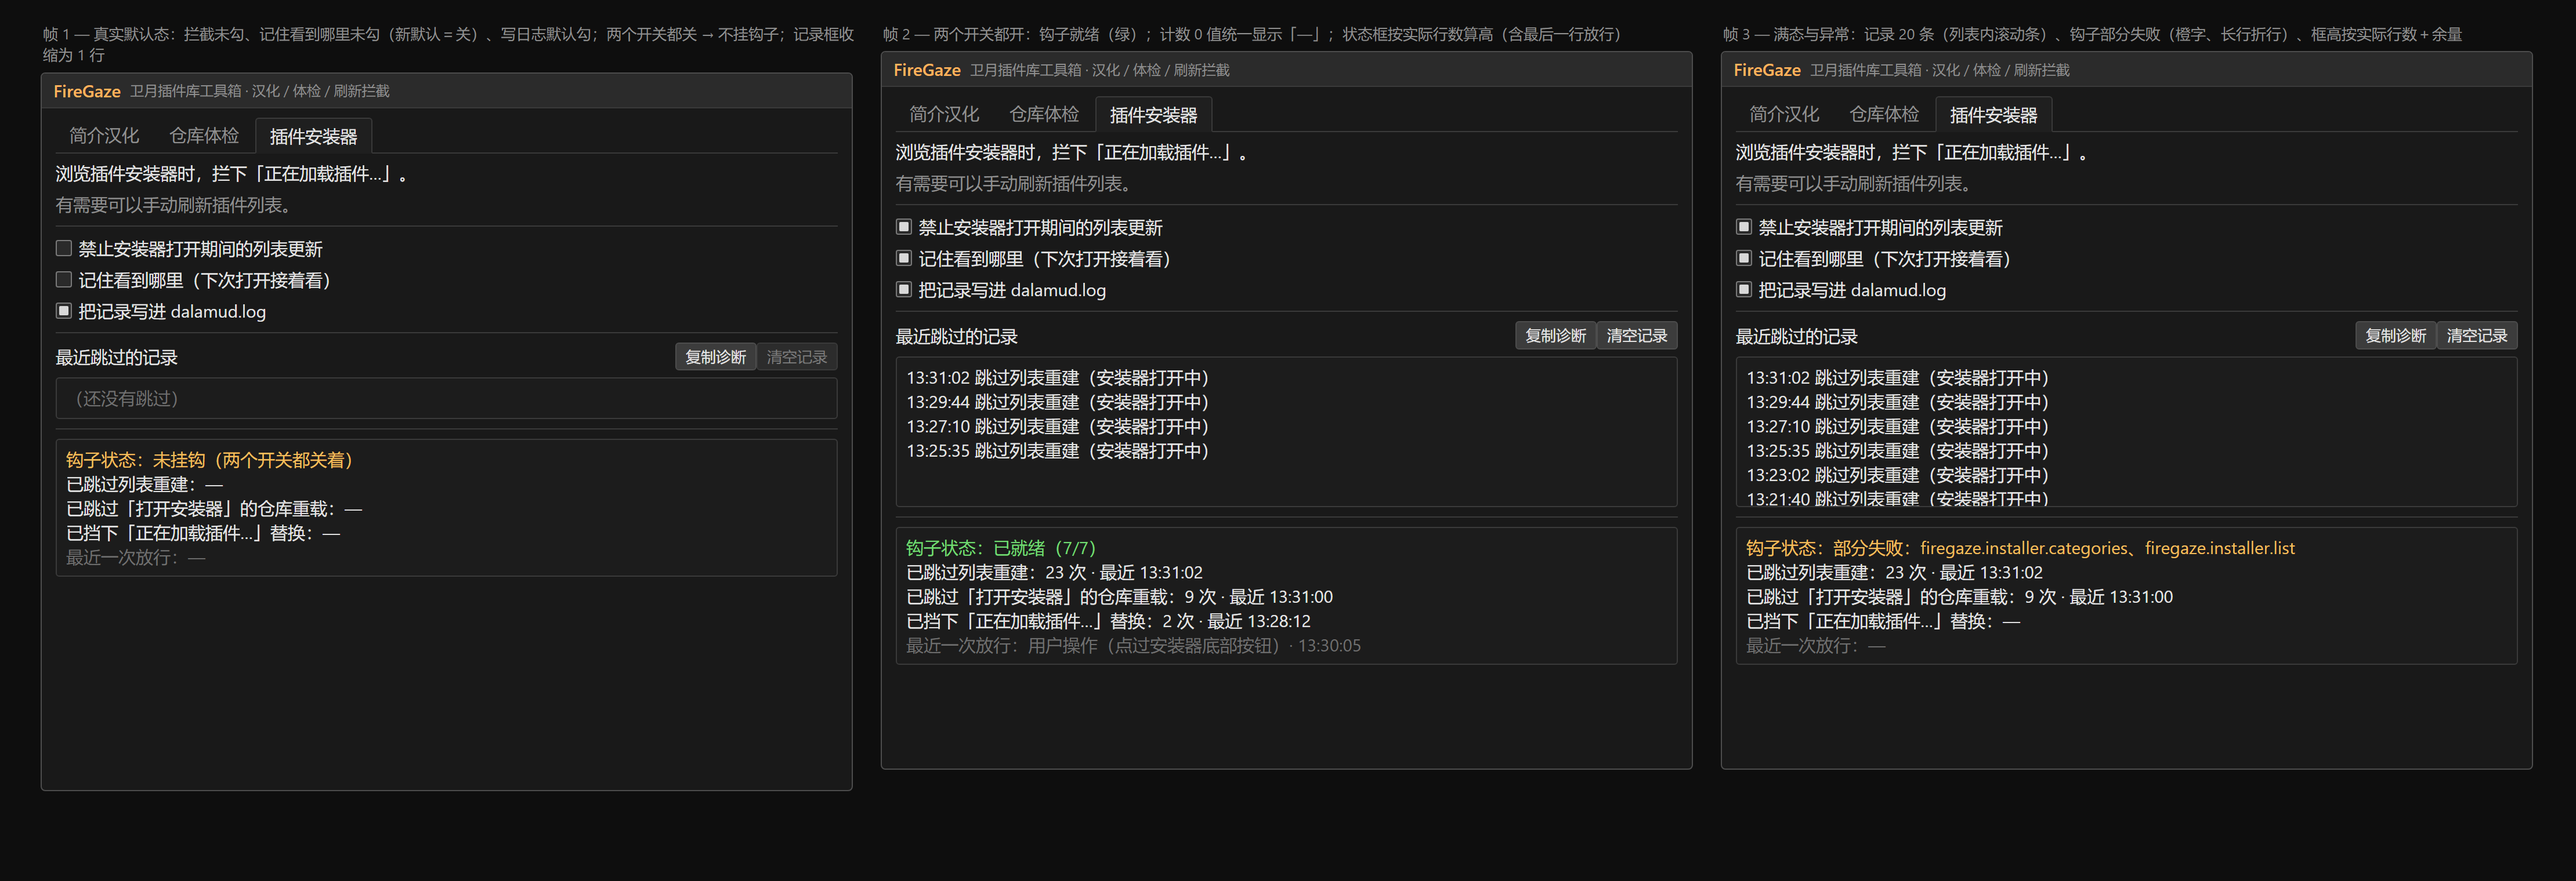
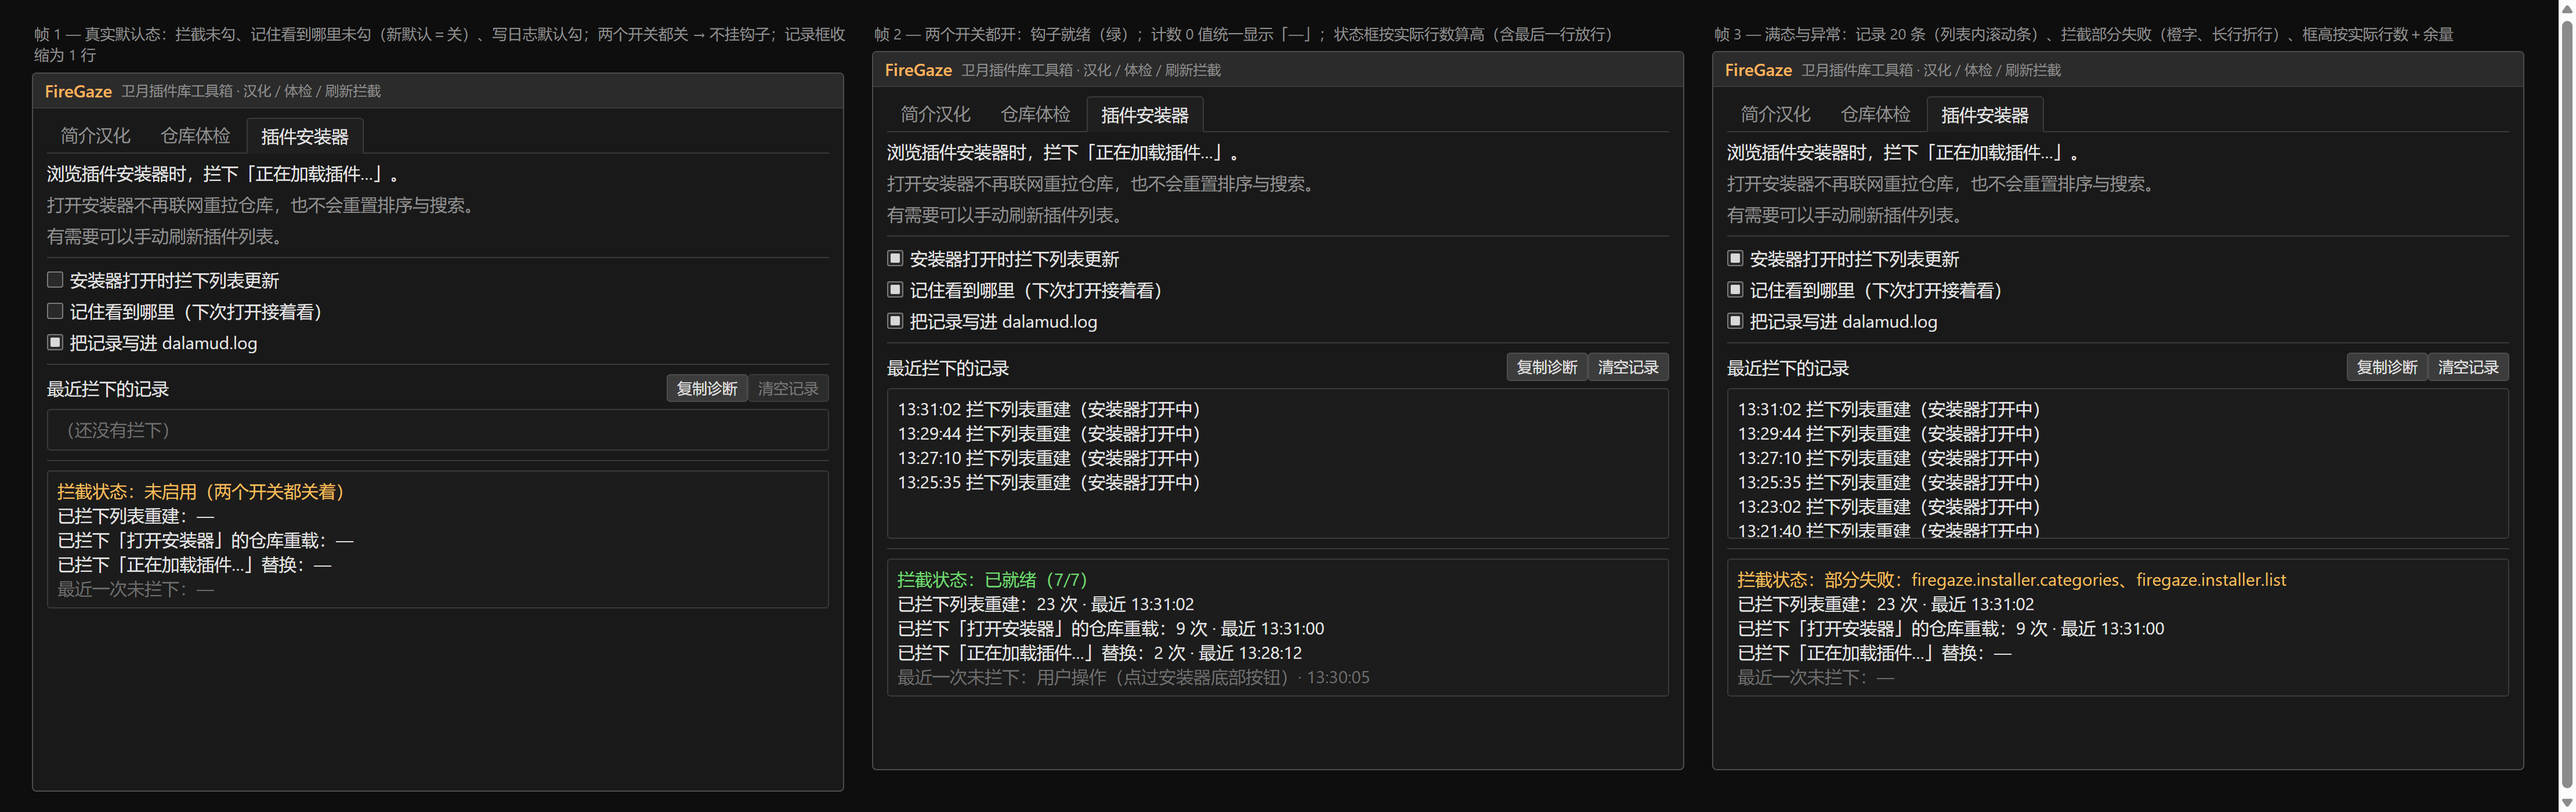
术语统一为「拦下」（页签/记录/状态/诊断/聊天输出），拦截状态行改短句；说明文案补「打开安装器不再联网重拉仓库，也不会重置排序与搜索」；还原图同步；1.0.0.21

Changed region(s): [[0.0, 0.0, 1.0, 1.0]]

diff --git a/Resources/ui-mockup-installer-tab.html b/Resources/ui-mockup-installer-tab.html
@@ -58,27 +58,28 @@
         <div class="tabs"><div class="tab">简介汉化</div><div class="tab">仓库体检</div><div class="tab active">插件安装器</div></div>
 
         <div>浏览插件安装器时，拦下「正在加载插件…」。</div>
+        <div class="hint">打开安装器不再联网重拉仓库，也不会重置排序与搜索。</div>
         <div class="hint">有需要可以手动刷新插件列表。</div>
 
         <div class="sep"></div>
 
-        <div class="chip"><span class="check"></span>禁止安装器打开期间的列表更新</div>
+        <div class="chip"><span class="check"></span>安装器打开时拦下列表更新</div>
         <div class="chip"><span class="check"></span>记住看到哪里（下次打开接着看）</div>
         <div class="chip"><span class="check on"></span>把记录写进 dalamud.log</div>
 
         <div class="sep"></div>
 
-        <div class="sect"><span>最近跳过的记录</span><span class="grow"></span><button>复制诊断</button><button class="disabled">清空记录</button></div>
-        <div class="frame list" style="height:36px"><span class="dim">（还没有跳过）</span></div>
+        <div class="sect"><span>最近拦下的记录</span><span class="grow"></span><button>复制诊断</button><button class="disabled">清空记录</button></div>
+        <div class="frame list" style="height:36px"><span class="dim">（还没有拦下）</span></div>
 
         <div class="sep"></div>
 
         <div class="frame">
-          <div class="warn">钩子状态：未挂钩（两个开关都关着）</div>
-          <div class="mono">已跳过列表重建：—</div>
-          <div class="mono">已跳过「打开安装器」的仓库重载：—</div>
-          <div class="mono">已挡下「正在加载插件…」替换：—</div>
-          <div class="dim">最近一次放行：—</div>
+          <div class="warn">拦截状态：未启用（两个开关都关着）</div>
+          <div class="mono">已拦下列表重建：—</div>
+          <div class="mono">已拦下「打开安装器」的仓库重载：—</div>
+          <div class="mono">已拦下「正在加载插件…」替换：—</div>
+          <div class="dim">最近一次未拦下：—</div>
         </div>
       </div>
     </div>
@@ -93,32 +94,33 @@
         <div class="tabs"><div class="tab">简介汉化</div><div class="tab">仓库体检</div><div class="tab active">插件安装器</div></div>
 
         <div>浏览插件安装器时，拦下「正在加载插件…」。</div>
+        <div class="hint">打开安装器不再联网重拉仓库，也不会重置排序与搜索。</div>
         <div class="hint">有需要可以手动刷新插件列表。</div>
 
         <div class="sep"></div>
 
-        <div class="chip"><span class="check on"></span>禁止安装器打开期间的列表更新</div>
+        <div class="chip"><span class="check on"></span>安装器打开时拦下列表更新</div>
         <div class="chip"><span class="check on"></span>记住看到哪里（下次打开接着看）</div>
         <div class="chip"><span class="check on"></span>把记录写进 dalamud.log</div>
 
         <div class="sep"></div>
 
-        <div class="sect"><span>最近跳过的记录</span><span class="grow"></span><button>复制诊断</button><button>清空记录</button></div>
+        <div class="sect"><span>最近拦下的记录</span><span class="grow"></span><button>复制诊断</button><button>清空记录</button></div>
         <div class="frame list" style="height:130px">
-          <div class="mono">13:31:02 跳过列表重建（安装器打开中）</div>
-          <div class="mono">13:29:44 跳过列表重建（安装器打开中）</div>
-          <div class="mono">13:27:10 跳过列表重建（安装器打开中）</div>
-          <div class="mono">13:25:35 跳过列表重建（安装器打开中）</div>
+          <div class="mono">13:31:02 拦下列表重建（安装器打开中）</div>
+          <div class="mono">13:29:44 拦下列表重建（安装器打开中）</div>
+          <div class="mono">13:27:10 拦下列表重建（安装器打开中）</div>
+          <div class="mono">13:25:35 拦下列表重建（安装器打开中）</div>
         </div>
 
         <div class="sep"></div>
 
         <div class="frame">
-          <div class="good">钩子状态：已就绪（7/7）</div>
-          <div class="mono">已跳过列表重建：23 次 · 最近 13:31:02</div>
-          <div class="mono">已跳过「打开安装器」的仓库重载：9 次 · 最近 13:31:00</div>
-          <div class="mono">已挡下「正在加载插件…」替换：2 次 · 最近 13:28:12</div>
-          <div class="dim">最近一次放行：用户操作（点过安装器底部按钮）· 13:30:05</div>
+          <div class="good">拦截状态：已就绪（7/7）</div>
+          <div class="mono">已拦下列表重建：23 次 · 最近 13:31:02</div>
+          <div class="mono">已拦下「打开安装器」的仓库重载：9 次 · 最近 13:31:00</div>
+          <div class="mono">已拦下「正在加载插件…」替换：2 次 · 最近 13:28:12</div>
+          <div class="dim">最近一次未拦下：用户操作（点过安装器底部按钮）· 13:30:05</div>
         </div>
       </div>
     </div>
@@ -126,42 +128,43 @@
 
   <!-- ============ 帧 3：满态 / 异常态 ============ -->
   <div>
-    <p class="caption">帧 3 — 满态与异常：记录 20 条（列表内滚动条）、钩子部分失败（橙字、长行折行）、框高按实际行数＋余量</p>
+    <p class="caption">帧 3 — 满态与异常：记录 20 条（列表内滚动条）、拦截部分失败（橙字、长行折行）、框高按实际行数＋余量</p>
     <div class="window">
       <div class="titlebar"><span class="brand">FireGaze</span><span class="sub">卫月插件库工具箱 · 汉化 / 体检 / 刷新拦截</span></div>
       <div class="body">
         <div class="tabs"><div class="tab">简介汉化</div><div class="tab">仓库体检</div><div class="tab active">插件安装器</div></div>
 
         <div>浏览插件安装器时，拦下「正在加载插件…」。</div>
+        <div class="hint">打开安装器不再联网重拉仓库，也不会重置排序与搜索。</div>
         <div class="hint">有需要可以手动刷新插件列表。</div>
 
         <div class="sep"></div>
 
-        <div class="chip"><span class="check on"></span>禁止安装器打开期间的列表更新</div>
+        <div class="chip"><span class="check on"></span>安装器打开时拦下列表更新</div>
         <div class="chip"><span class="check on"></span>记住看到哪里（下次打开接着看）</div>
         <div class="chip"><span class="check on"></span>把记录写进 dalamud.log</div>
 
         <div class="sep"></div>
 
-        <div class="sect"><span>最近跳过的记录</span><span class="grow"></span><button>复制诊断</button><button>清空记录</button></div>
+        <div class="sect"><span>最近拦下的记录</span><span class="grow"></span><button>复制诊断</button><button>清空记录</button></div>
         <div class="frame list" style="height:130px">
-          <div class="mono">13:31:02 跳过列表重建（安装器打开中）</div>
-          <div class="mono">13:29:44 跳过列表重建（安装器打开中）</div>
-          <div class="mono">13:27:10 跳过列表重建（安装器打开中）</div>
-          <div class="mono">13:25:35 跳过列表重建（安装器打开中）</div>
-          <div class="mono">13:23:02 跳过列表重建（安装器打开中）</div>
-          <div class="mono">13:21:40 跳过列表重建（安装器打开中）</div>
+          <div class="mono">13:31:02 拦下列表重建（安装器打开中）</div>
+          <div class="mono">13:29:44 拦下列表重建（安装器打开中）</div>
+          <div class="mono">13:27:10 拦下列表重建（安装器打开中）</div>
+          <div class="mono">13:25:35 拦下列表重建（安装器打开中）</div>
+          <div class="mono">13:23:02 拦下列表重建（安装器打开中）</div>
+          <div class="mono">13:21:40 拦下列表重建（安装器打开中）</div>
           <div class="scrollhint"></div>
         </div>
 
         <div class="sep"></div>
 
         <div class="frame">
-          <div class="warn">钩子状态：部分失败：firegaze.installer.categories、firegaze.installer.list</div>
-          <div class="mono">已跳过列表重建：23 次 · 最近 13:31:02</div>
-          <div class="mono">已跳过「打开安装器」的仓库重载：9 次 · 最近 13:31:00</div>
-          <div class="mono">已挡下「正在加载插件…」替换：—</div>
-          <div class="dim">最近一次放行：—</div>
+          <div class="warn">拦截状态：部分失败：firegaze.installer.categories、firegaze.installer.list</div>
+          <div class="mono">已拦下列表重建：23 次 · 最近 13:31:02</div>
+          <div class="mono">已拦下「打开安装器」的仓库重载：9 次 · 最近 13:31:00</div>
+          <div class="mono">已拦下「正在加载插件…」替换：—</div>
+          <div class="dim">最近一次未拦下：—</div>
         </div>
       </div>
     </div>

diff --git a/src/FireGaze/Plugin.cs b/src/FireGaze/Plugin.cs
@@ -202,7 +202,7 @@ public sealed class Plugin : IDalamudPlugin
             }
             else
             {
-                this.BlockerStatusText = "未挂钩（两个开关都关着）";
+                this.BlockerStatusText = "未启用（两个开关都关着）";
             }
 
             this.translateTimer.Start();
@@ -262,7 +262,7 @@ public sealed class Plugin : IDalamudPlugin
     public DalamudRepos Repos { get; }
 
     /// <summary>钩子状态文字。</summary>
-    public string BlockerStatusText { get; private set; } = "尚未挂钩";
+    public string BlockerStatusText { get; private set; } = "尚未启用";
 
     /// <summary>累计拦截次数。</summary>
     public int BlockedCount => this.Config.BlockedCount;
@@ -294,12 +294,12 @@ public sealed class Plugin : IDalamudPlugin
         => string.Join(
             "\n",
             "FireGaze 拦截状态",
-            $"钩子：{this.HookSummary}",
-            $"钩子明细：{this.BlockerStatusText}",
-            $"已跳过列表重建：{this.Config.BlockedCount} 次（最近 {Show(this.lastSkipNote)}）",
-            $"已跳过打开安装器的仓库重载：{this.openReloadSkippedCount} 次（最近 {Show(this.lastOpenSkipNote)}）",
-            $"已挡下加载态替换：{this.listSuppressCount} 次（最近 {Show(this.lastSuppressNote)}）",
-            $"最近一次放行：{Show(this.lastAllowNote)}",
+            $"拦截状态：{this.HookSummary}",
+            $"拦截明细：{this.BlockerStatusText}",
+            $"已拦下列表重建：{this.Config.BlockedCount} 次（最近 {Show(this.lastSkipNote)}）",
+            $"已拦下打开安装器的仓库重载：{this.openReloadSkippedCount} 次（最近 {Show(this.lastOpenSkipNote)}）",
+            $"已拦下加载态替换：{this.listSuppressCount} 次（最近 {Show(this.lastSuppressNote)}）",
+            $"最近一次未拦下：{Show(this.lastAllowNote)}",
             $"拦截开关：{(this.BlockerActive ? "开" : "关")}；记住列表位置：{(this.Config.RememberListScroll ? "开" : "关")}");
 
     private static string Show(string text) => string.IsNullOrEmpty(text) ? "—" : text;
@@ -449,11 +449,11 @@ public sealed class Plugin : IDalamudPlugin
     {
         if (this.Config.RecentBlockedSources.Count == 0)
         {
-            Chat.Print("[FireGaze] 暂无跳过记录");
+            Chat.Print("[FireGaze] 暂无拦下记录");
             return;
         }
 
-        Chat.Print($"[FireGaze] 累计跳过列表重建 {this.Config.BlockedCount} 次，最近来源：");
+        Chat.Print($"[FireGaze] 已拦下列表重建 {this.Config.BlockedCount} 次，最近：");
         foreach (var line in this.Config.RecentBlockedSources)
         {
             Chat.Print("  " + line);
@@ -516,7 +516,7 @@ public sealed class Plugin : IDalamudPlugin
 
             if (this.startupInitDone)
             {
-                this.BlockerStatusText = "未挂钩（两个开关都关着）";
+                this.BlockerStatusText = "未启用（两个开关都关着）";
             }
 
             return;
@@ -546,7 +546,7 @@ public sealed class Plugin : IDalamudPlugin
         }
 
         this.harmony = null;
-        this.BlockerStatusText = "未挂钩（模式为关闭）";
+        this.BlockerStatusText = "未启用（模式为关闭）";
     }
 
     /// <summary>开关拦截日志。</summary>
@@ -617,7 +617,7 @@ public sealed class Plugin : IDalamudPlugin
             var installerType = dalamud.GetType("Dalamud.Interface.Internal.Windows.PluginInstaller.PluginInstallerWindow");
             if (installerType is null)
             {
-                this.BlockerStatusText = "找不到插件安装器类型（卫月版本不兼容），未挂钩";
+                this.BlockerStatusText = "未启用（卫月版本不兼容：找不到插件安装器）";
                 Log.Warning("[FireGaze] " + this.BlockerStatusText);
                 return;
             }
@@ -665,7 +665,7 @@ public sealed class Plugin : IDalamudPlugin
         }
         catch (Exception e)
         {
-            this.BlockerStatusText = "挂钩失败：" + e.Message;
+            this.BlockerStatusText = "启用失败：" + e.Message;
             Log.Error(e, "[FireGaze] 挂钩失败（不影响游戏）");
         }
     }
@@ -1043,7 +1043,7 @@ public sealed class Plugin : IDalamudPlugin
                 this.Config.BlockedCount++;
                 count = this.Config.BlockedCount;
 
-                var line = $"{DateTime.Now:HH:mm:ss} 跳过列表重建（安装器打开中）";
+                var line = $"{DateTime.Now:HH:mm:ss} 拦下列表重建（安装器打开中）";
                 this.Config.RecentBlockedSources.Insert(0, line);
                 while (this.Config.RecentBlockedSources.Count > Configuration.MaxRecentBlocked)
                 {

diff --git a/src/FireGaze/UI/BlockerTab.cs b/src/FireGaze/UI/BlockerTab.cs
@@ -36,12 +36,13 @@ internal sealed class BlockerTab
         var config = this.plugin.Config;
 
         ImGui.TextWrapped("浏览插件安装器时，拦下「正在加载插件…」。");
+        ImGui.TextDisabled("打开安装器不再联网重拉仓库，也不会重置排序与搜索。");
         ImGui.TextDisabled("有需要可以手动刷新插件列表。");
 
         ImGui.Separator();
 
         var enabled = config.BlockerMode != BlockMode.Off;
-        if (ImGui.Checkbox("禁止安装器打开期间的列表更新###BlockerEnabled", ref enabled))
+        if (ImGui.Checkbox("安装器打开时拦下列表更新###BlockerEnabled", ref enabled))
         {
             this.plugin.SetBlockerEnabled(enabled);
         }
@@ -64,7 +65,7 @@ internal sealed class BlockerTab
     /// <summary>最近跳过的记录（在状态框上面）。</summary>
     private void DrawRecordsSection()
     {
-        ImGui.Text("最近跳过的记录");
+        ImGui.Text("最近拦下的记录");
 
         var hasRecords = this.plugin.HasBlockerRecords;
         var armed = DateTime.UtcNow < this.clearArmedUntil;
@@ -108,7 +109,7 @@ internal sealed class BlockerTab
         {
             if (sources.Count == 0)
             {
-                ImGui.TextDisabled("（还没有跳过）");
+                ImGui.TextDisabled("（还没有拦下）");
             }
             else
             {
@@ -132,10 +133,10 @@ internal sealed class BlockerTab
 
         var lines = new List<string>
         {
-            CounterLine("已跳过列表重建", this.plugin.BlockedCount, this.plugin.LastSkipNote),
-            CounterLine("已跳过「打开安装器」的仓库重载", this.plugin.OpenSkipCount, this.plugin.OpenSkipTime),
-            CounterLine("已挡下「正在加载插件…」替换", this.plugin.ListSuppressCount, this.plugin.ListSuppressTime),
-            string.IsNullOrEmpty(allow) ? "最近一次放行：—" : $"最近一次放行：{allow}",
+            CounterLine("已拦下列表重建", this.plugin.BlockedCount, this.plugin.LastSkipNote),
+            CounterLine("已拦下「打开安装器」的仓库重载", this.plugin.OpenSkipCount, this.plugin.OpenSkipTime),
+            CounterLine("已拦下「正在加载插件…」替换", this.plugin.ListSuppressCount, this.plugin.ListSuppressTime),
+            string.IsNullOrEmpty(allow) ? "最近一次未拦下：—" : $"最近一次未拦下：{allow}",
         };
 
         // 高度按「实际行数 + 钩子状态那一行的可能换行余量」算，别把最后一行裁掉
@@ -147,7 +148,7 @@ internal sealed class BlockerTab
         {
             UiHelpers.ColoredWrapped(
                 hooked ? UiHelpers.Good : UiHelpers.Warn,
-                $"钩子状态：{this.plugin.HookSummary}");
+                $"拦截状态：{this.plugin.HookSummary}");
 
             foreach (var line in lines)
             {
